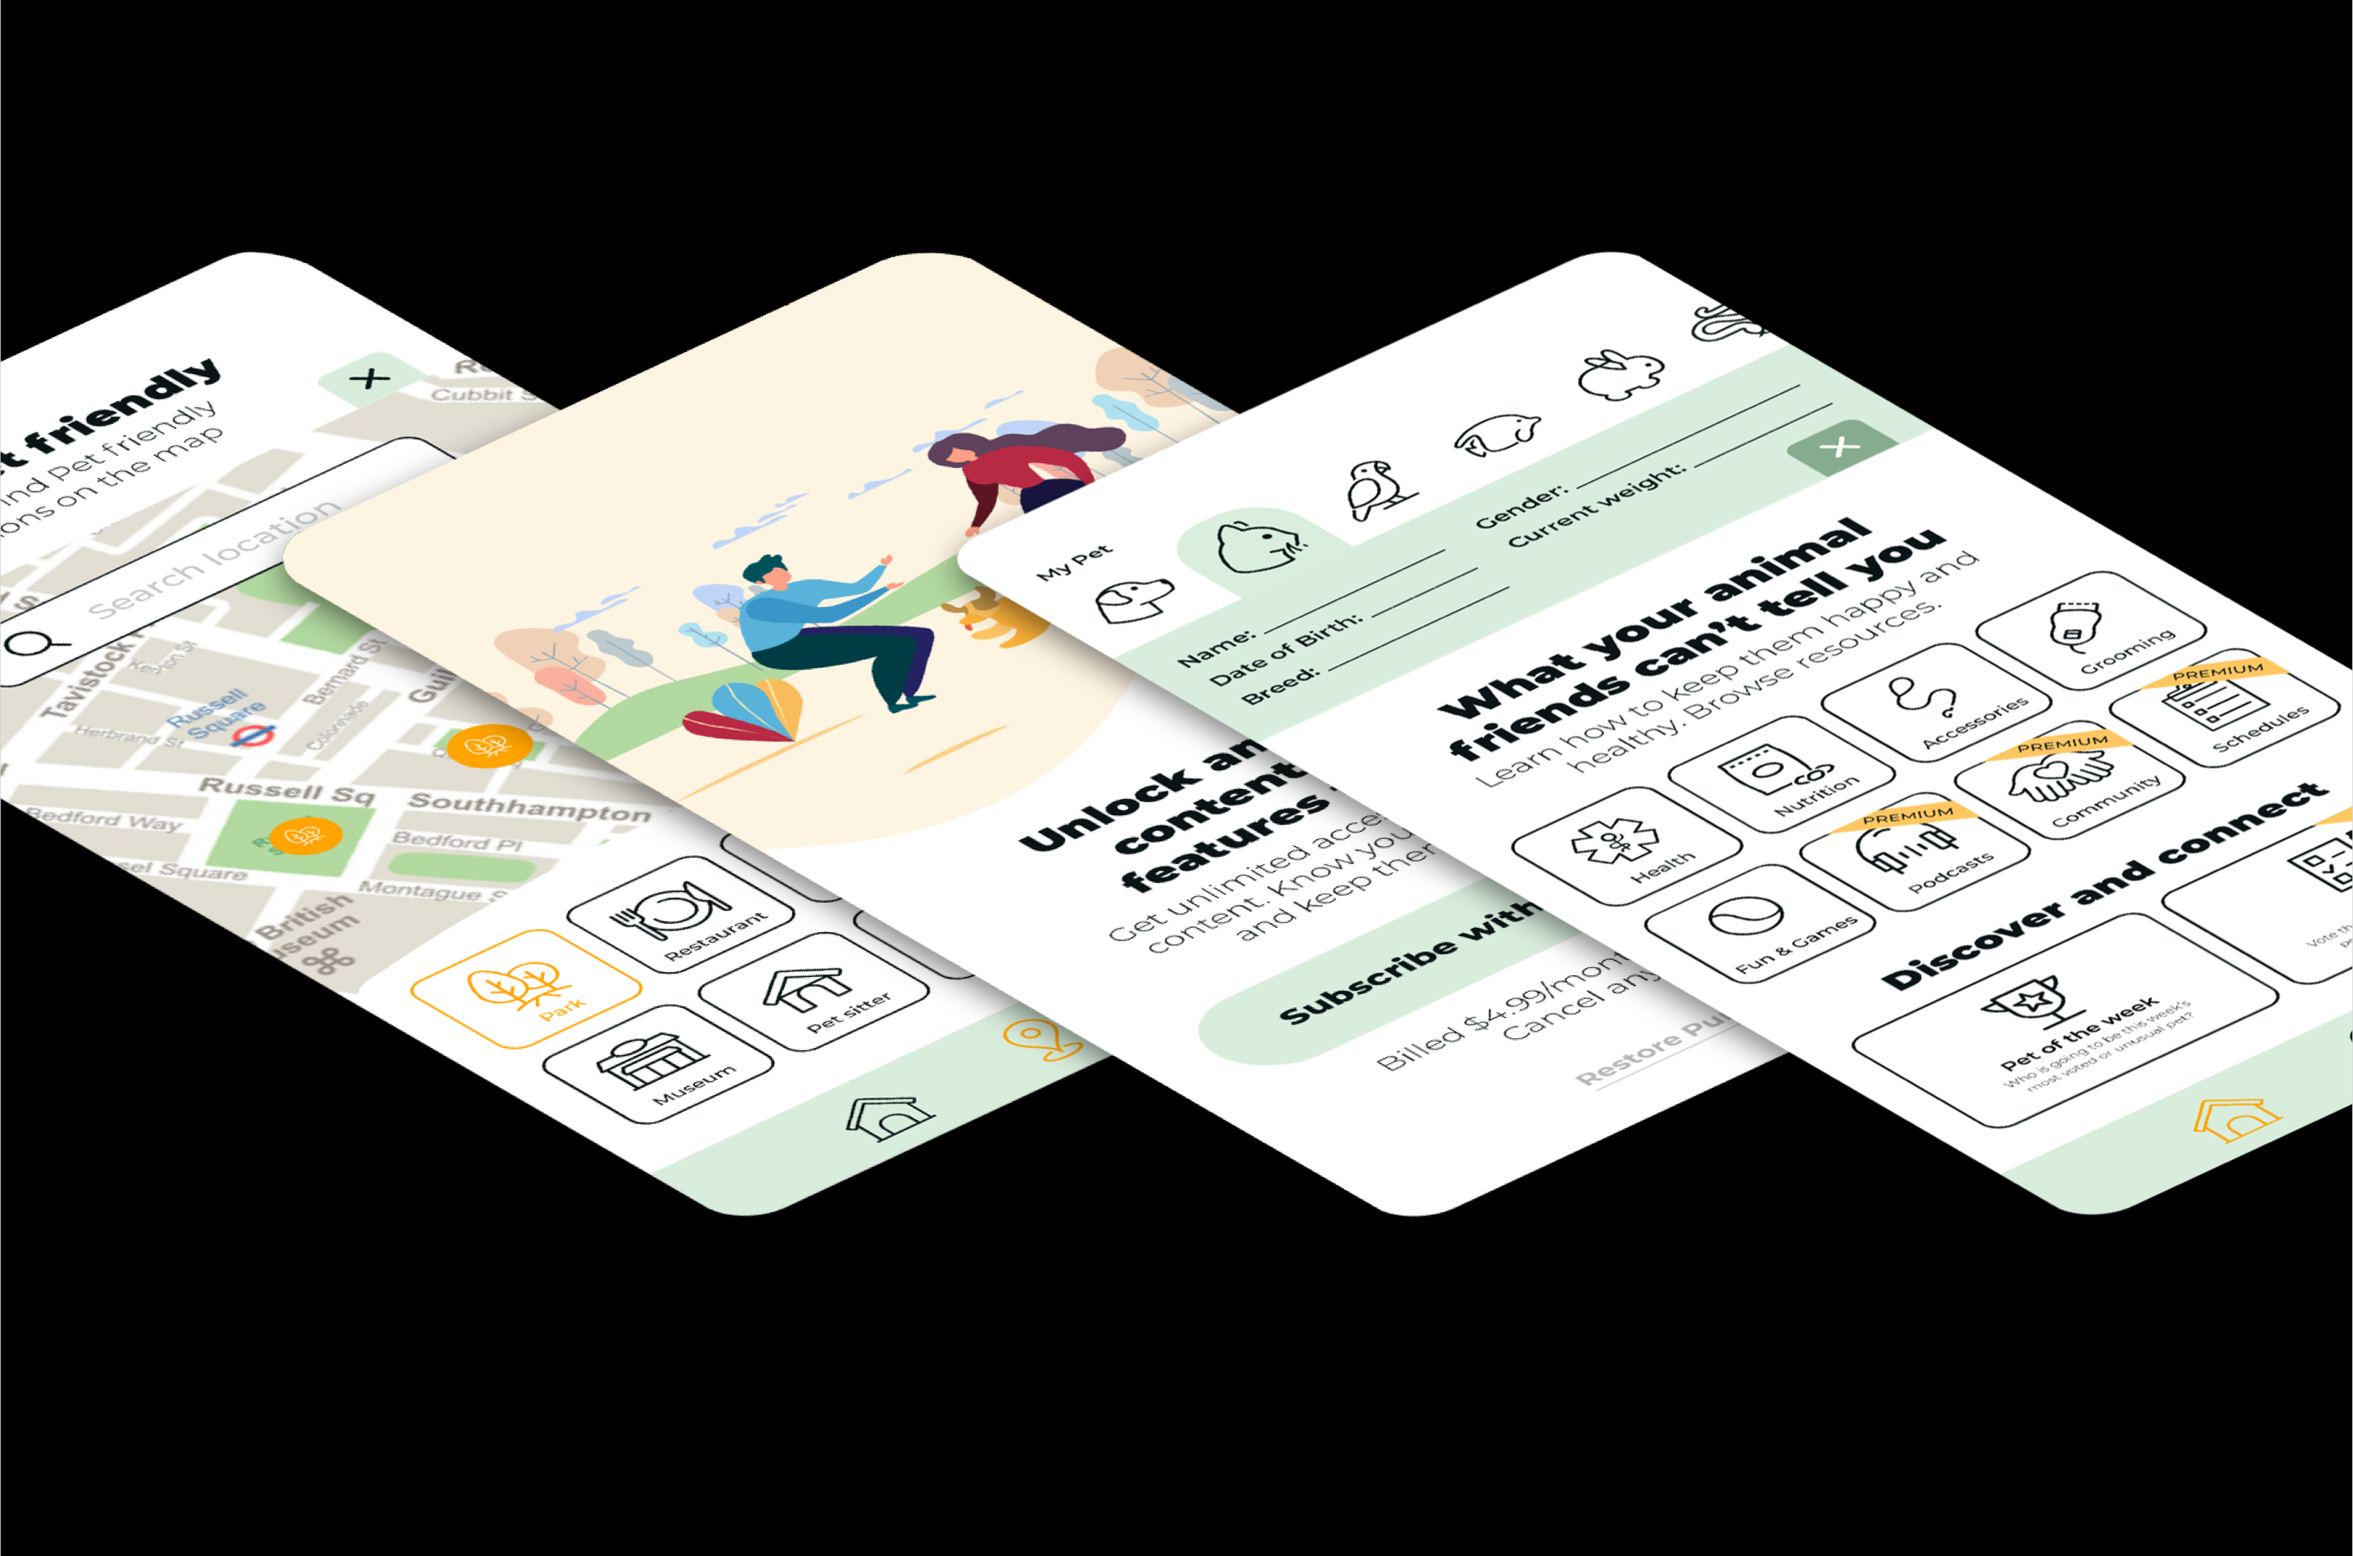
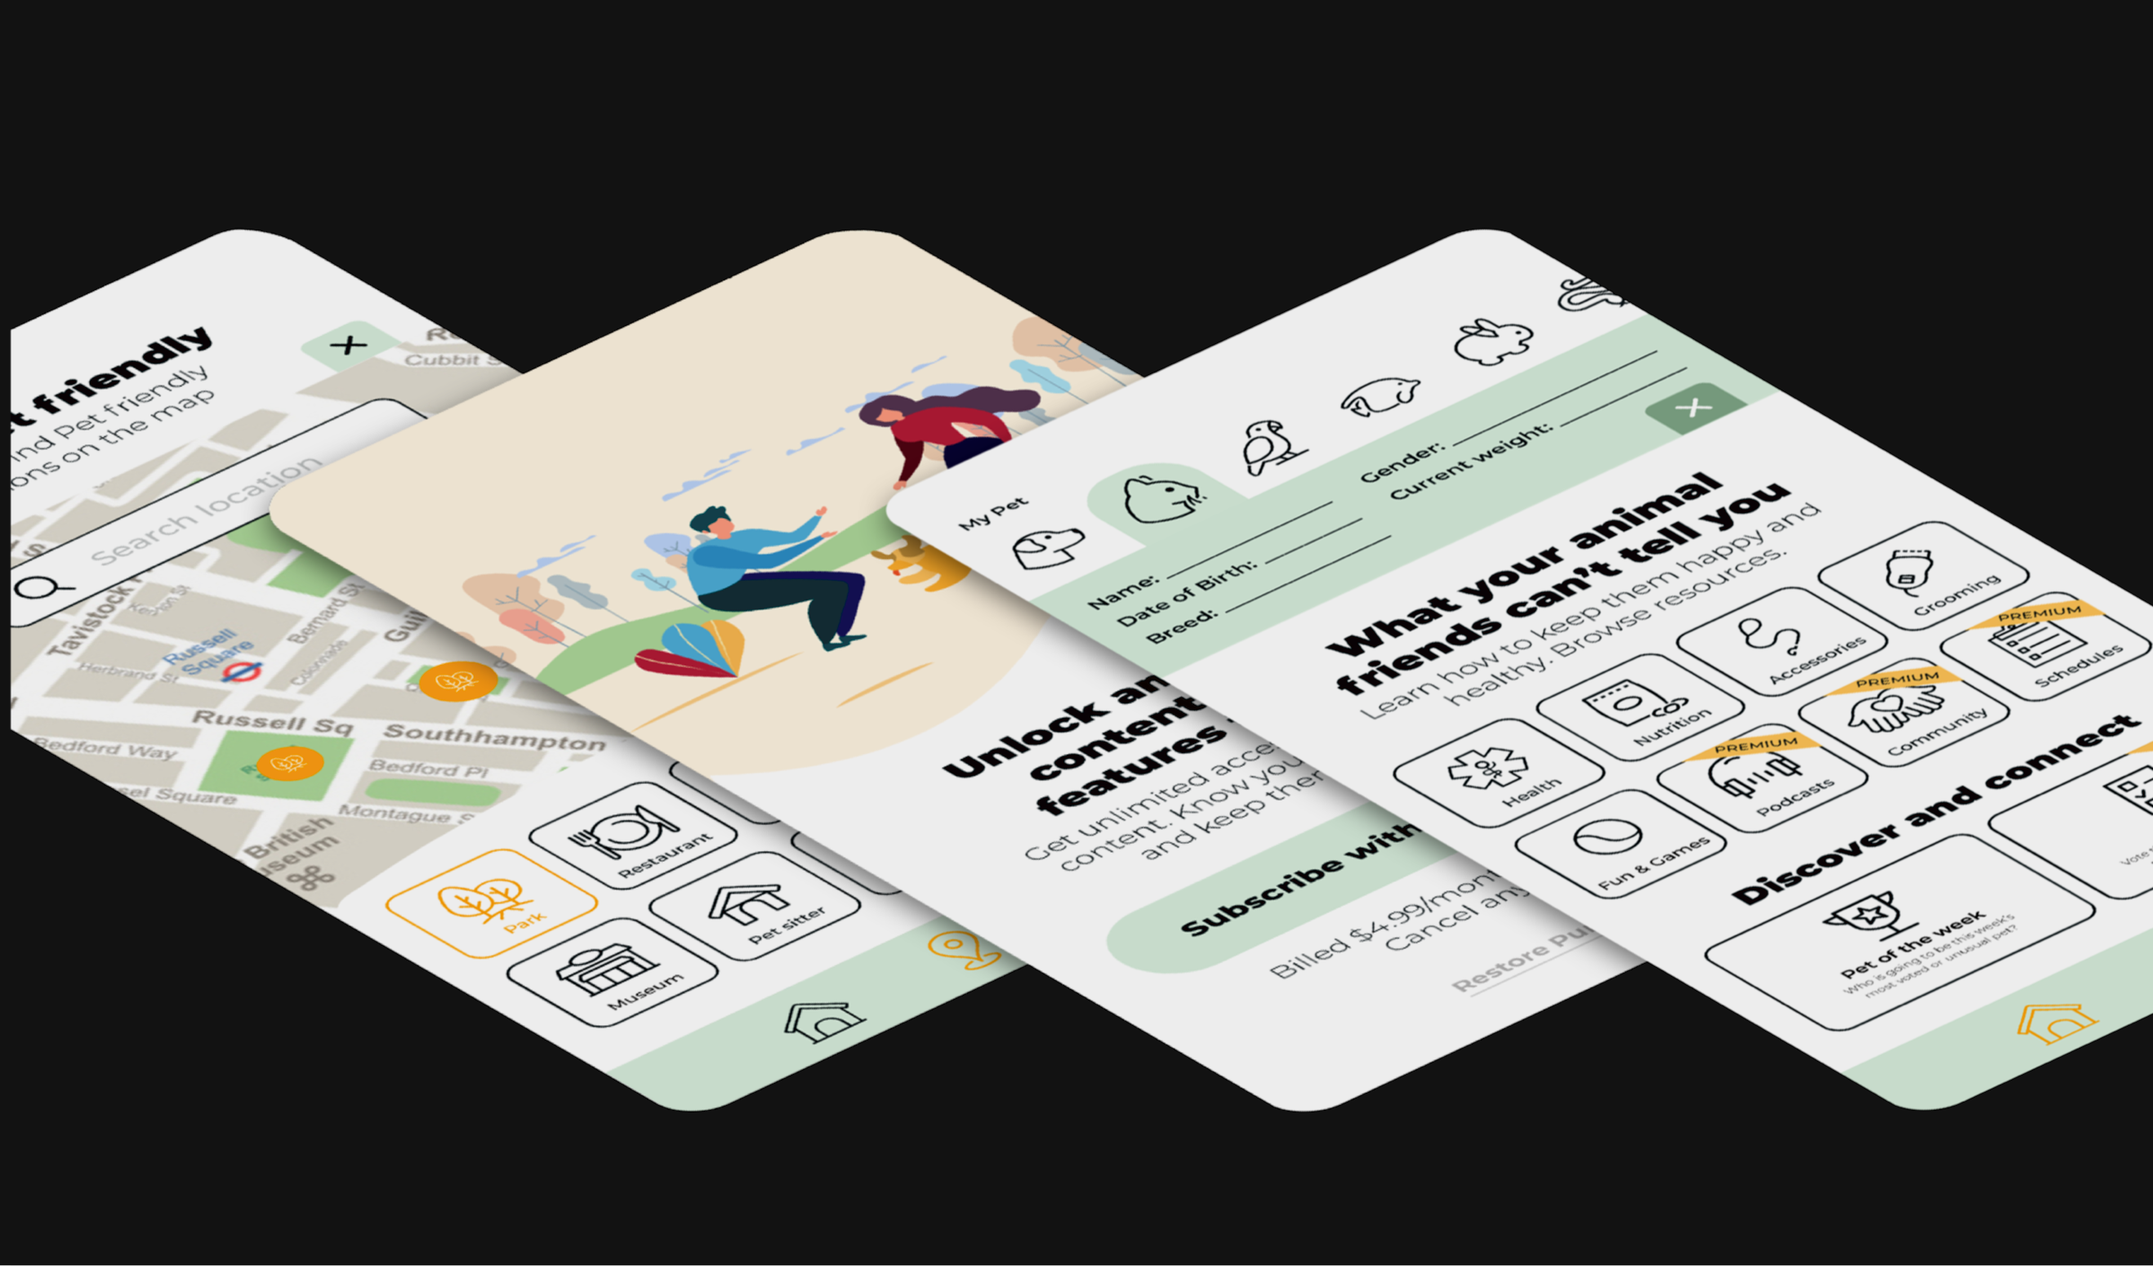
Visual update

diff --git a/src/pages/pet-time.js b/src/pages/pet-time.js
@@ -119,12 +119,12 @@ function petTime() {
             title="Portfolio page PetTime App"
          />
 
-         <div className="w-12/12 mx-auto bg-blackPure">
+         <div className="w-12/12 mx-auto bg-dark text-dark">
             <TransitionPageIn>
                <Img className="max-w-screen-xl mx-auto" fluid={data.petTime_1.childImageSharp.fluid} loading="eager" />
                <div className="w-full bg-white">
                   <div className="w-full mx-auto pt-1 pb-10 md:pb-20 md:pt-32">
-                     <section className="w-11/12 md:w-7/12 max-w-screen-lg mx-auto text-black md:flex ">
+                     <section className="w-11/12 md:w-7/12 max-w-screen-lg mx-auto md:flex ">
                         <div className="md:w-4/12 mt-0 hidden md:block md:mt-20">
                            <h4 className="font-extrabold uppercase tracking-widest mt-2">Description</h4>
                            <h4 className="pt-1">App design</h4>
@@ -257,7 +257,7 @@ function petTime() {
                      </section>
                   </div>
                </div>
-               <section className="w-full max-w-screen-xl mx-auto bg-blackPure mt-10 px-0 md:px-50 py-24">
+               <section className="w-full max-w-screen-xl mx-auto mt-10 px-0 md:px-50 py-24">
                   <Img fluid={data.petTime_6.childImageSharp.fluid} loading="eager" alt="App screen" />
                </section>
                {imageData.map((image, i) => (
@@ -270,7 +270,7 @@ function petTime() {
                   <Img fluid={data.petTime_5.childImageSharp.fluid} className="-m-2" loading="eager" alt="App screen" />
                </div>
 
-               <div className="w-full bg-blackPure mx-auto">
+               <div className="w-full mx-auto">
                   <ImgNavTiles isPageNav={true} />
                </div>
             </TransitionPageIn>

diff --git a/src/css/globalStyles.css b/src/css/globalStyles.css
@@ -2,8 +2,9 @@ html {
    /* scroll-behavior: smooth; */
    /* background-color: #020202;
    background-color: #111111; */
-   background-color: #020202;
+   /* background-color: #020202; */
    background-color: #121212;
+   /* background-color: #111111; */
 }
 
 body {

diff --git a/src/pages/about.js b/src/pages/about.js
@@ -399,7 +399,7 @@ function About() {
                </TransitionInview>
             </div>
          </TransitionPageIn>
-         <div className="bg-black">
+         <div className="bg-dark">
             <ImgNavTiles isPageNav={true} />
          </div>
       </>
